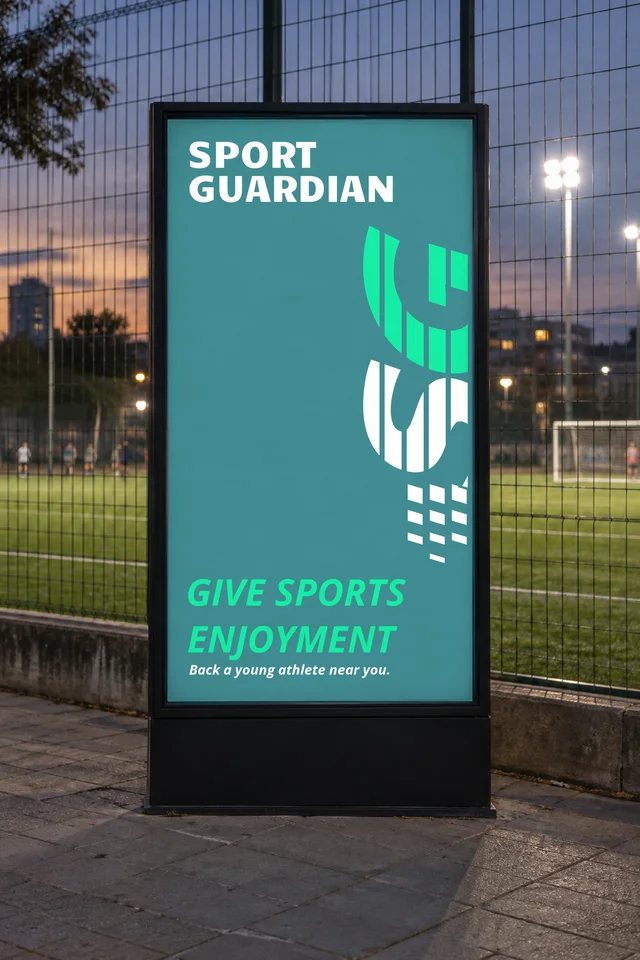
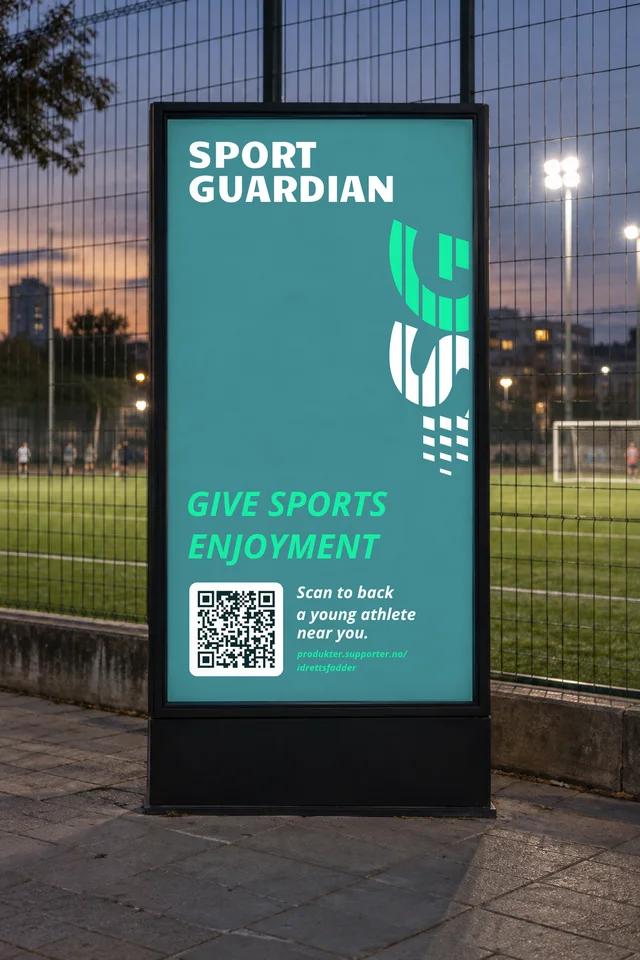
Sport Guardian poster: QR code to the crowdfunding page with a call to scan

Changed region(s): [[0.2812, 0.2188, 0.75, 0.7188]]

diff --git a/SportGuardian.html b/SportGuardian.html
@@ -294,9 +294,9 @@ footer .wrap{display:flex;justify-content:space-between;gap:16px;flex-wrap:wrap}
 
 
 
-<p class="cap c1-4 end rv"><b>On the street</b>A poster by the pitch, where the people who could help already stand on Saturday mornings.</p>
+<p class="cap c1-4 end rv"><b>On the street</b>A poster by the pitch, where the people who could help already stand on Saturday mornings. The QR code opens the campaign.</p>
 
-<figure class="c5-8 rv"><div class="ph r23"><img src="assets/work/sport-guardian/poster-1024.webp" srcset="assets/work/sport-guardian/poster-640.webp 640w, assets/work/sport-guardian/poster-1024.webp 1024w" sizes="(max-width:720px) 100vw, 400px" alt="A lit poster case by a football pitch fence at dusk; the teal poster reads SPORT GUARDIAN, GIVE SPORTS ENJOYMENT, with the SG mark running down its right edge." width="1024" height="1536" loading="lazy"></div></figure>
+<figure class="c5-8 rv"><div class="ph r23"><img src="assets/work/sport-guardian/poster-1024.webp" srcset="assets/work/sport-guardian/poster-640.webp 640w, assets/work/sport-guardian/poster-1024.webp 1024w" sizes="(max-width:720px) 100vw, 400px" alt="A lit poster case by a football pitch fence at dusk; the teal poster reads SPORT GUARDIAN, GIVE SPORTS ENJOYMENT, with the SG mark down its right edge and a QR code: Scan to back a young athlete near you, produkter.supporter.no/idrettsfadder." width="1024" height="1536" loading="lazy"></div></figure>
 
 <figure class="c9-12 lift rv" style="--d:.1s"><div class="ph r23"><img src="assets/work/sport-guardian/bottle-1024.webp" srcset="assets/work/sport-guardian/bottle-640.webp 640w, assets/work/sport-guardian/bottle-1024.webp 1024w" sizes="(max-width:720px) 100vw, 400px" alt="A young football player in a teal shirt with a small SG mark on the chest drinks from a white bottle with the SG mark on a pitch at sunset." width="1024" height="1536" loading="lazy"></div></figure>
 

diff --git a/tools/sport-guardian/print_photo.py b/tools/sport-guardian/print_photo.py
@@ -101,16 +101,35 @@ def bottle():
 if __name__ == '__main__':
     bottle(); print('ok3')
 
+QR_URL = 'https://produkter.supporter.no/idrettsfadder'  # the crowdfunding product page in her presentation frame 198:59192
+
+def qr_tile(size):
+    """A white rounded tile with a QR code to the crowdfunding page (2026-10-13, her request). Scannable: quiet zone kept."""
+    import io, segno
+    from PIL import ImageDraw
+    buf = io.BytesIO(); segno.make(QR_URL, error='m').save(buf, kind='png', scale=20, border=0, dark='#0E2A2D', light=None); buf.seek(0)
+    q = Image.open(buf).convert('RGBA'); pad = int(size*.09)
+    q = q.resize((size-2*pad, size-2*pad), Image.NEAREST)
+    t = Image.new('RGBA', (size, size), (0, 0, 0, 0)); ImageDraw.Draw(t).rounded_rectangle((0, 0, size-1, size-1), int(size*.08), fill=WHITE+(255,))
+    t.paste(q, (pad, pad), q); return t
+
 def poster_art(W=976, H=1862):
-    """The poster face: name top left, the mark large down the right edge (cut by it), the line below."""
+    """The poster face: name top left, the mark down the right edge (cut by it), the line, and a QR code to the
+    crowdfunding page with a call to scan it (QR added 2026-10-13, her request)."""
     im = Image.new('RGBA', (W, H), TEAL+(255,))
-    m = rot(mark(), 90); m = m.resize((int(m.width*1080/m.height), 1080), Image.LANCZOS)
-    im.paste(m, (W-m.width+int(m.width*.22), 340), m)
+    m = rot(mark(), 90); m = m.resize((int(m.width*820/m.height), 820), Image.LANCZOS)
+    im.paste(m, (W-m.width+int(m.width*.22), 320), m)
     n = words('SPORT', 120, WHITE); g = words('GUARDIAN', 120, WHITE)
     im.paste(n, (70, 70), n); im.paste(g, (70, 70+n.height+22), g)
     for k, line in enumerate(['GIVE SPORTS', 'ENJOYMENT']):
-        t = words(line, 118, GREEN, O); im.paste(t, (66, 1470+k*150), t)
-    s = words('Back a young athlete near you.', 44, WHITE, O); im.paste(s, (70, H-118), s)
+        t = words(line, 108, GREEN, O); im.paste(t, (66, 1190+k*136), t)
+    qs = 300; qy = H-80-qs
+    q = qr_tile(qs); im.paste(q, (70, qy), q)
+    x = 70+qs+44
+    for k, line in enumerate(['Scan to back', 'a young athlete', 'near you.']):
+        t = words(line, 52, WHITE, O); im.paste(t, (x, qy+10+k*70), t)
+    for k, line in enumerate(['produkter.supporter.no/', 'idrettsfadder']):
+        u = words(line, 30, GREEN, O); im.paste(u, (x, qy+qs-84+k*44), u)
     return im
 
 def poster():

diff --git a/sportguardian.md b/sportguardian.md
@@ -47,7 +47,7 @@ Order (2026-10-13, her request, last change): header → the moving mosaic → A
    - caption "On the street" (1–4), the poster (5–8), the bottle photo (9–12), the small mark on her shirt set on the chest;
    - the skateboards (1–9), caption "In the club" on the right (10–12) (swapped, her request);
    - the cap on the right edge (5–12, her request), the mark alone, centred on the front panel between the top seam and the brim.
-   Photos: AI images generated with Figma AI (gpt-image-2.5, her Pro plan, 2026-10-13), not real people or places; the SG mark is printed on them from the vector master with [`tools/sport-guardian/print_photo.py`](tools/sport-guardian/print_photo.py) (it takes the light of the fabric or surface). The poster line "Back a young athlete near you." is placeholder copy written for the mockup.
+   Photos: AI images generated with Figma AI (gpt-image-2.5, her Pro plan, 2026-10-13), not real people or places; the SG mark is printed on them from the vector master with [`tools/sport-guardian/print_photo.py`](tools/sport-guardian/print_photo.py) (it takes the light of the fabric or surface). The poster (2026-10-13, her request) carries a QR code on a white tile to the crowdfunding page, produkter.supporter.no/idrettsfadder (the product URL in her presentation frame), with "Scan to back a young athlete near you." beside it (placeholder copy written for the mockup) and the address in green; it scans in every served size (checked with OpenCV). Made with segno in `print_photo.py`. The caption adds: "The QR code opens the campaign."
 6. **Back to all work.**
 
 ## Logo
